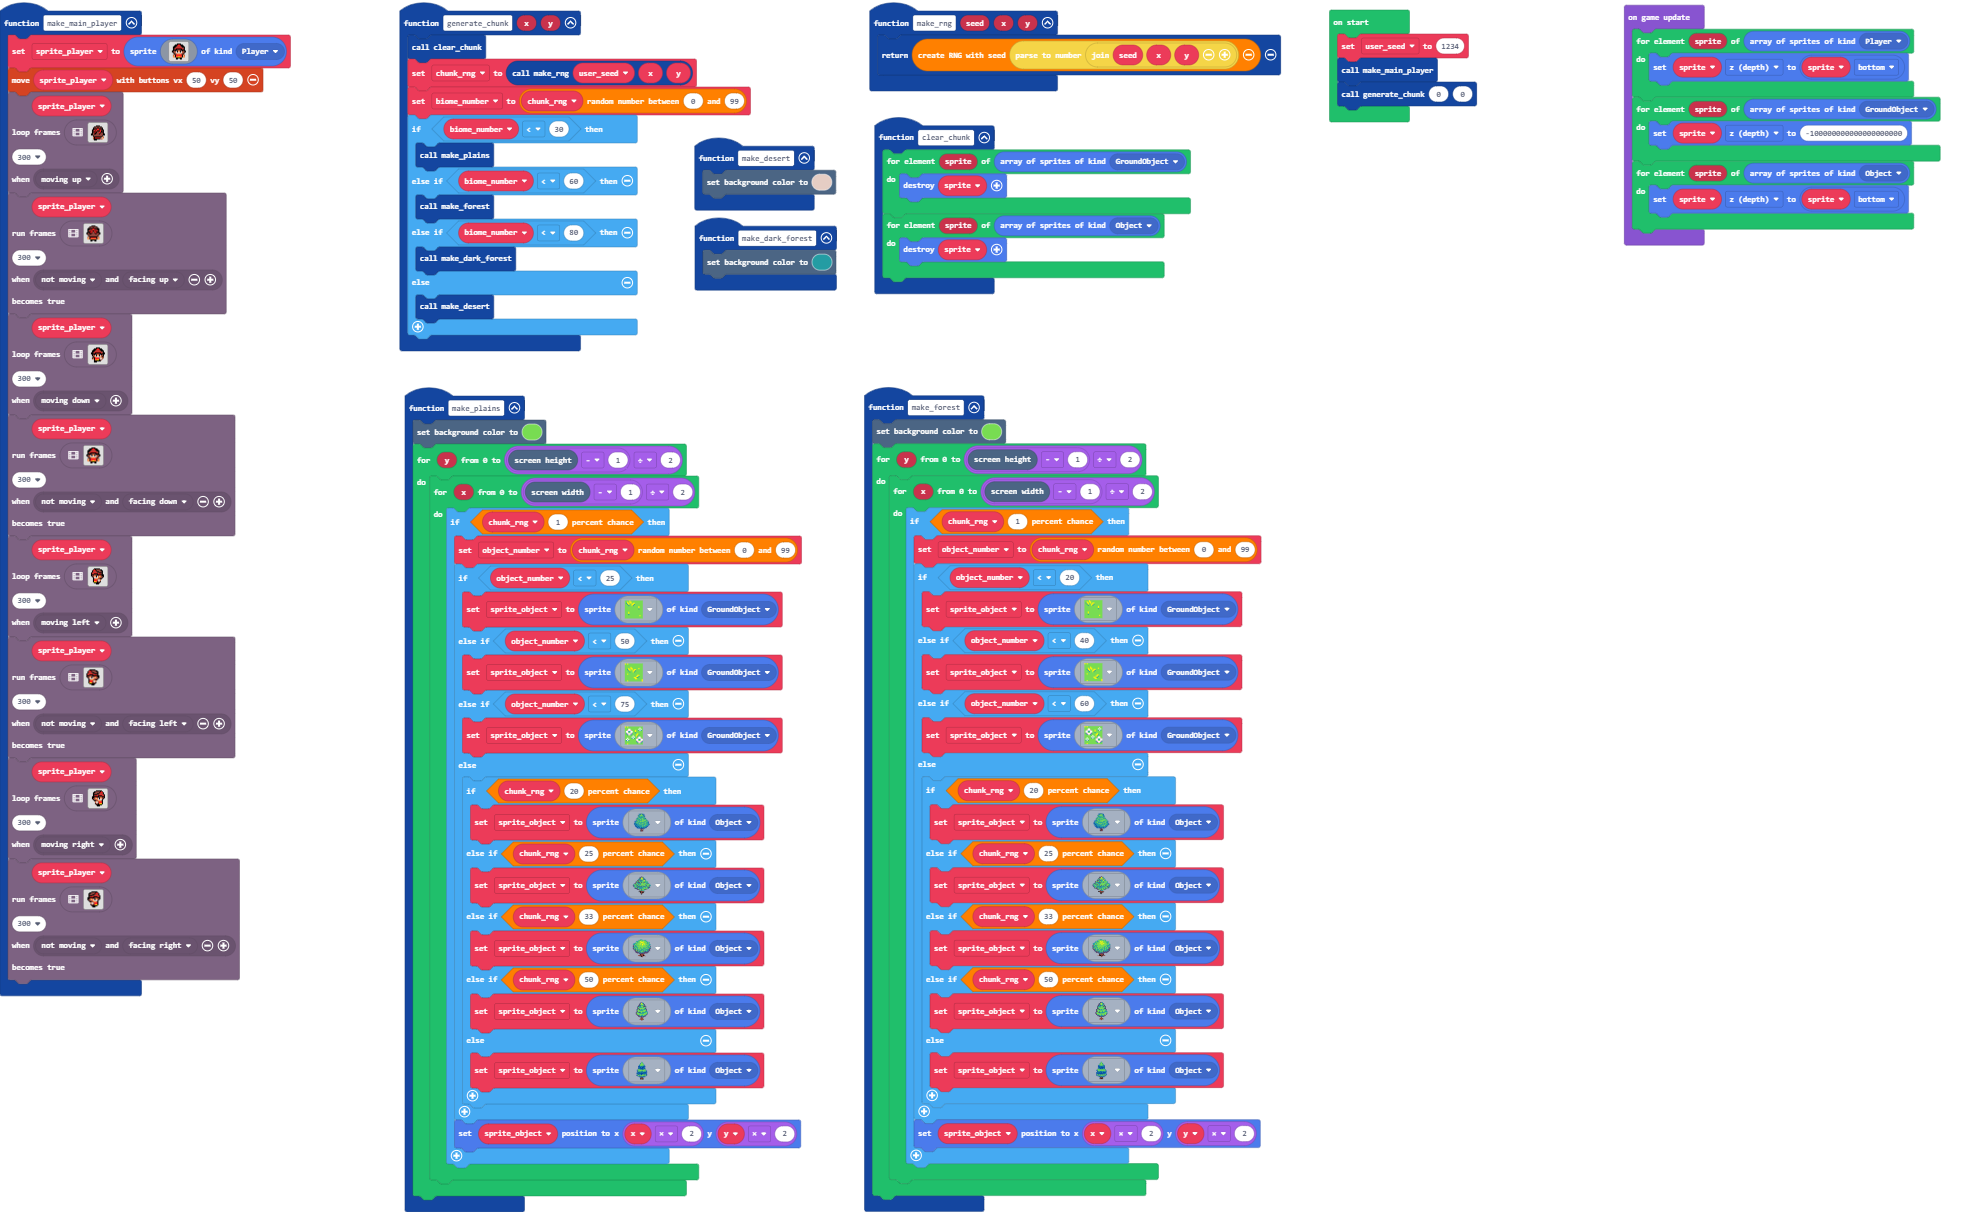
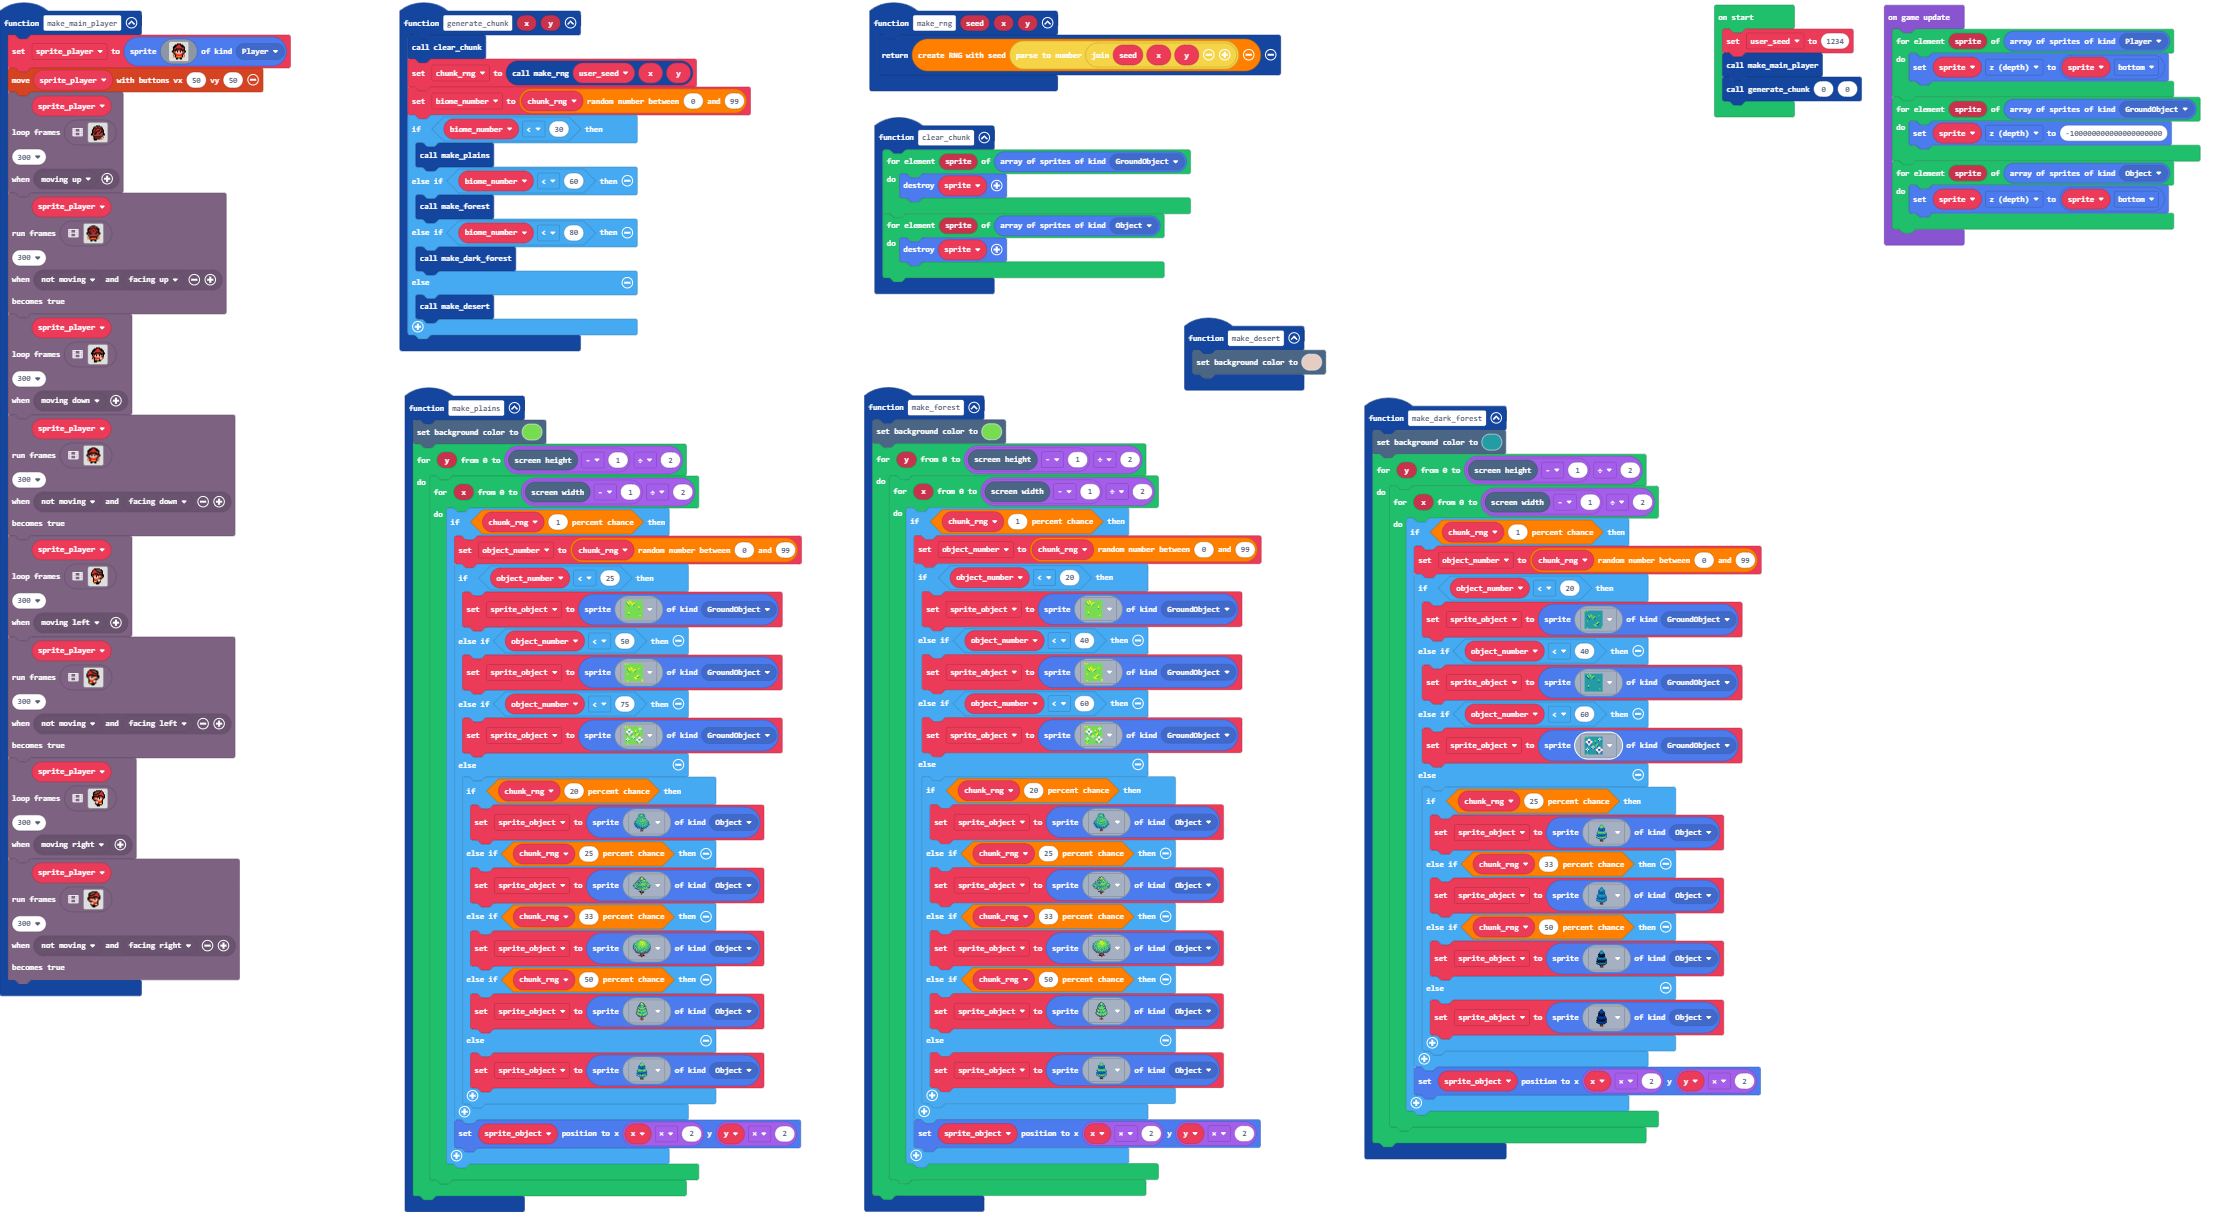
Do dark forest procedural generation

diff --git a/main.ts b/main.ts
@@ -362,6 +362,31 @@ function make_forest () {
 }
 function make_dark_forest () {
     scene.setBackgroundColor(6)
+    for (let y = 0; y <= (scene.screenHeight() - 1) / 2; y++) {
+        for (let x = 0; x <= (scene.screenWidth() - 1) / 2; x++) {
+            if (chunk_rng.percentChance(1)) {
+                object_number = chunk_rng.randomRange(0, 99)
+                if (object_number < 20) {
+                    sprite_object = sprites.create(sprites.castle.tileDarkGrass1, SpriteKind.GroundObject)
+                } else if (object_number < 40) {
+                    sprite_object = sprites.create(sprites.castle.tileDarkGrass3, SpriteKind.GroundObject)
+                } else if (object_number < 60) {
+                    sprite_object = sprites.create(sprites.castle.tileDarkGrass2, SpriteKind.GroundObject)
+                } else {
+                    if (chunk_rng.percentChance(25)) {
+                        sprite_object = sprites.create(sprites.builtin.forestTree1, SpriteKind.Object)
+                    } else if (chunk_rng.percentChance(33)) {
+                        sprite_object = sprites.create(sprites.builtin.forestTree0, SpriteKind.Object)
+                    } else if (chunk_rng.percentChance(50)) {
+                        sprite_object = sprites.create(sprites.builtin.forestTree2, SpriteKind.Object)
+                    } else {
+                        sprite_object = sprites.create(sprites.builtin.forestTree3, SpriteKind.Object)
+                    }
+                }
+                sprite_object.setPosition(x * 2, y * 2)
+            }
+        }
+    }
 }
 function make_desert () {
     scene.setBackgroundColor(13)
